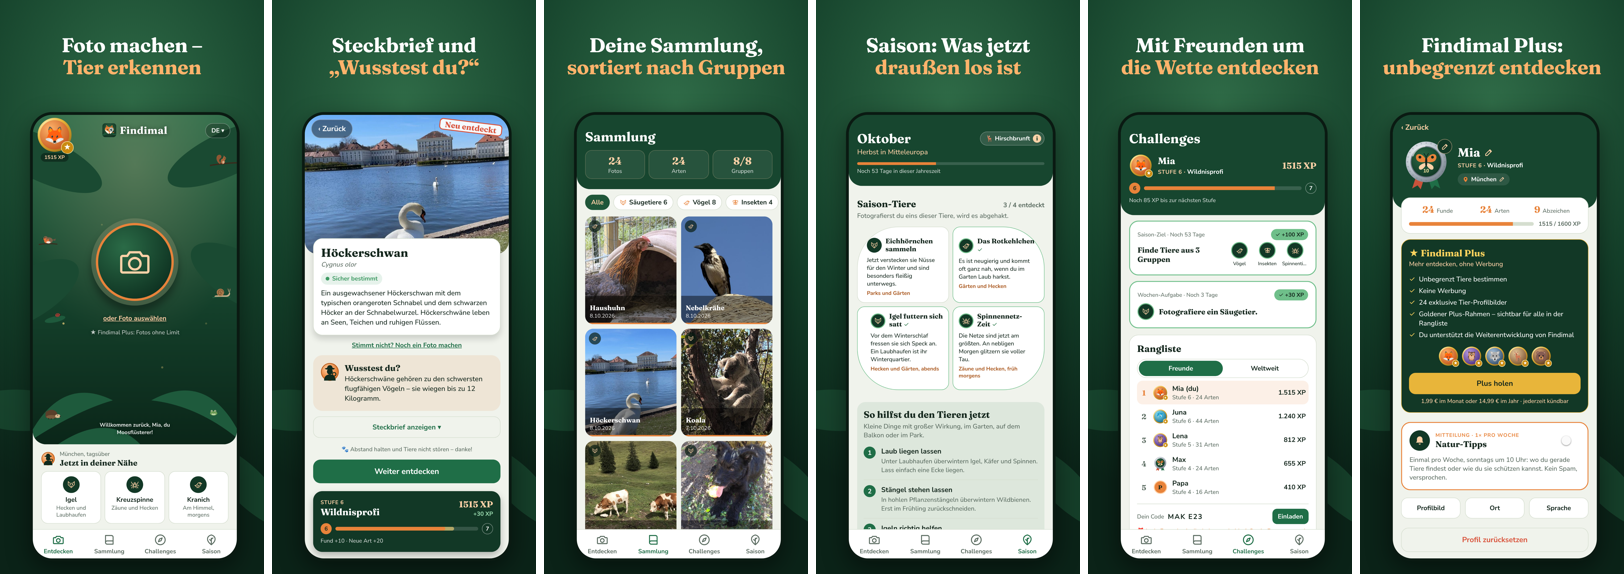
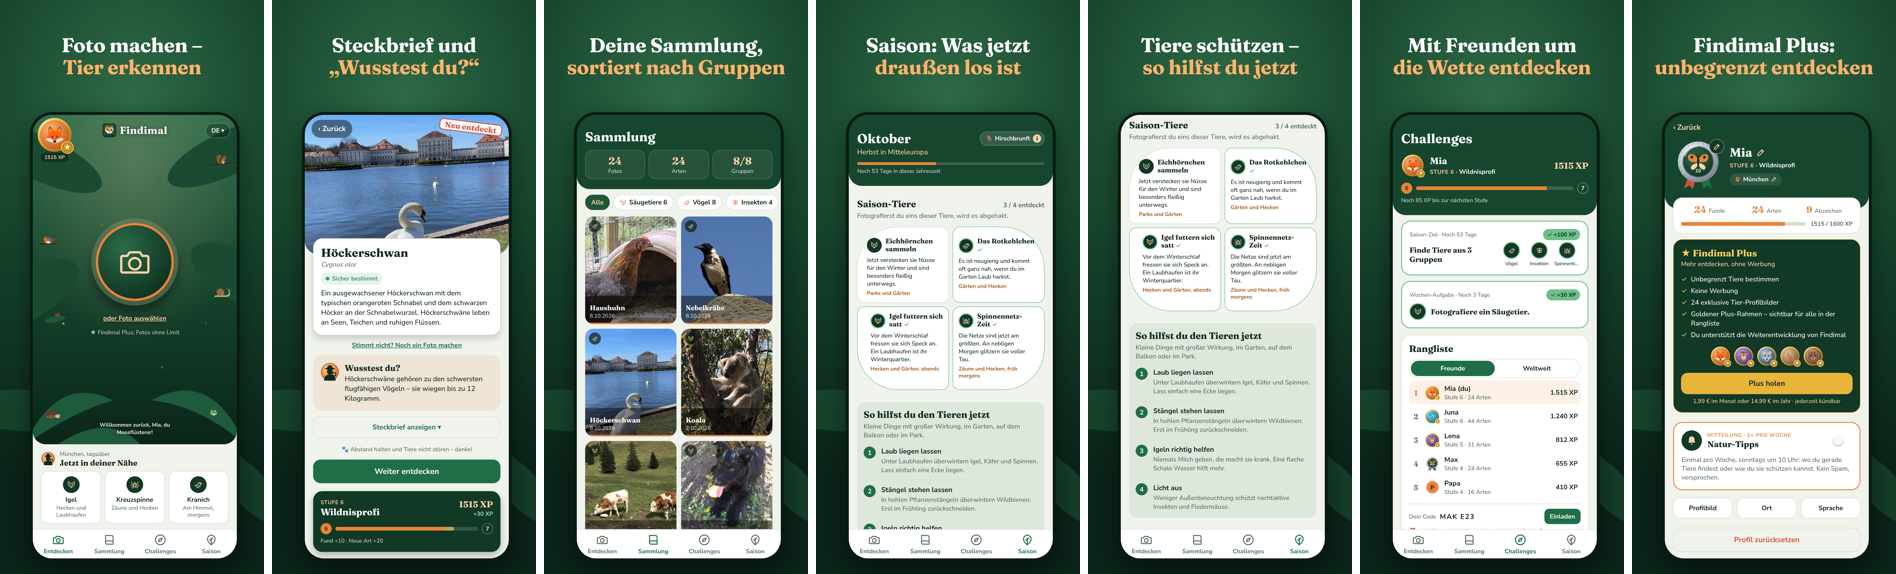
Store-Bilder: eigenes Bild „Tiere schützen – so hilfst du jetzt“ (7 statt 6)
Claude-Session: https://claude.ai/code/session_01VFiTu3sL19JvRVECMiZ5YZ

diff --git a/README.md b/README.md
@@ -9,7 +9,7 @@ Beim Bauen der App werden sie nach `assets/` in den Hauptzweig kopiert.
 - `assets/icon.svg` – Vorlage (aus `src/components/AppLogo.tsx`)
 
 ## Bildschirmfotos für den App Store (`store-screenshots/`)
-1320 × 2868 Pixel (6,9-Zoll-iPhone), je 6 Bilder auf Deutsch (`de-…`) und Englisch (`en-…`).
+1320 × 2868 Pixel (6,9-Zoll-iPhone), je 7 Bilder auf Deutsch (`de-…`) und Englisch (`en-…`).
 Erstellt aus der Web-Vorschau mit Beispieldaten und eigenen Tierfotos (Huhn, Nebelkrähe, Höckerschwan, Koala, Kühe, Hund).
 
 ## Knopf fürs Kontrollzentrum (`targets/kamera-knopf/`)
